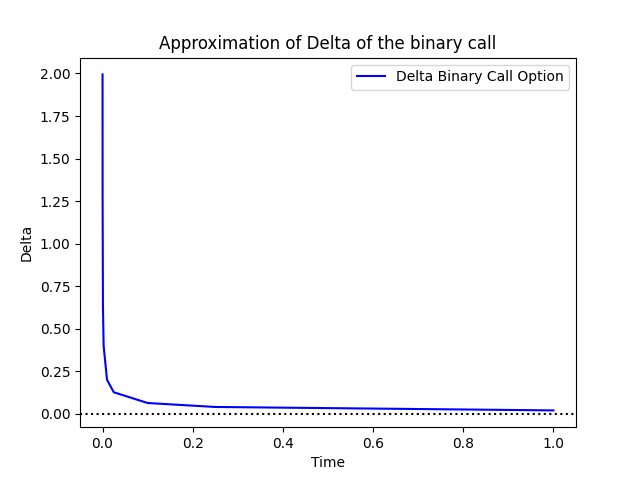
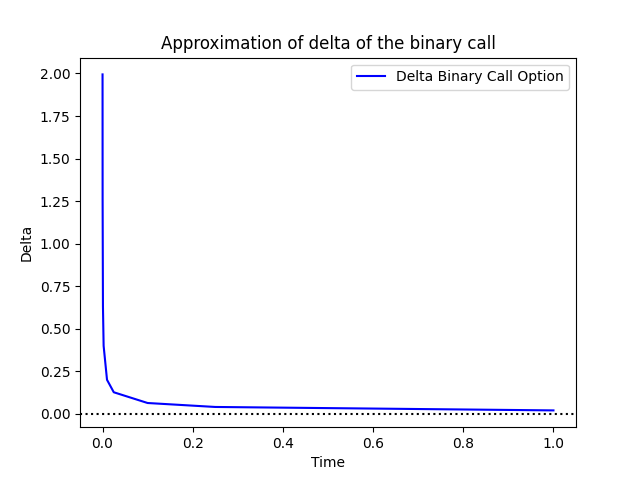
Update 1

Changed region(s): [[0.25, 0.0625, 0.7812, 0.125]]

diff --git a/Binary_Option_Analysis.py b/Binary_Option_Analysis.py
@@ -178,7 +178,7 @@ plt.clf()
 delta_t_vector = np.array([1, 0.25, 0.1, 0.025, 0.01, 0.0025, 0.001, 0.00025, 0.0001])
 plt.plot(delta_t_vector,binary_call_option_delta_approx(100, 100, 0.025,delta_t_vector,0.2,0.0001), color = 'b', label='Delta Binary Call Option')
 plt.axhline(y = 0, color = 'k', linestyle = ':')
-plt.title('Approximation of Delta of the binary call')
+plt.title('Approximation of delta of the binary call')
 plt.xlabel('Time')
 plt.ylabel('Delta')
 plt.legend(loc='upper right')
@@ -189,7 +189,7 @@ delta_t_vector = np.array([1, 0.25, 0.1, 0.025, 0.01, 0.0025, 0.001, 0.00025, 0.
 delta_t_vector = np.array([1, 0.25, 0.1, 0.025, 0.01, 0.0025, 0.001, 0.00025, 0.0001])
 plt.plot(delta_t_vector,binary_call_option_gamma_approx(100, 100, 0.025,delta_t_vector,0.2,0.0001), color = 'b', label='Gamma Binary Call Option')
 plt.axhline(y = 0, color = 'k', linestyle = ':')
-plt.title('Approximation of Gamma of the binary call')
+plt.title('Approximation of gamma of the binary call')
 plt.xlabel('Time')
 plt.ylabel('Gamma')
 plt.legend(loc='lower right')
